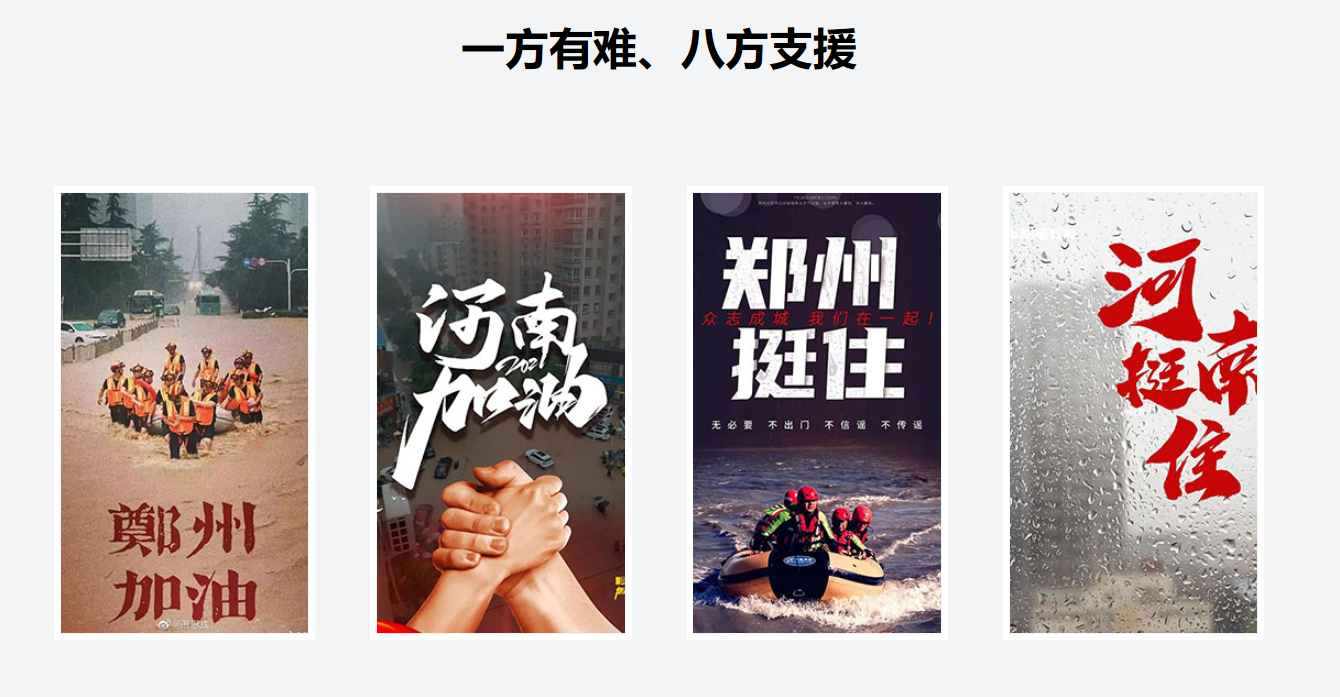
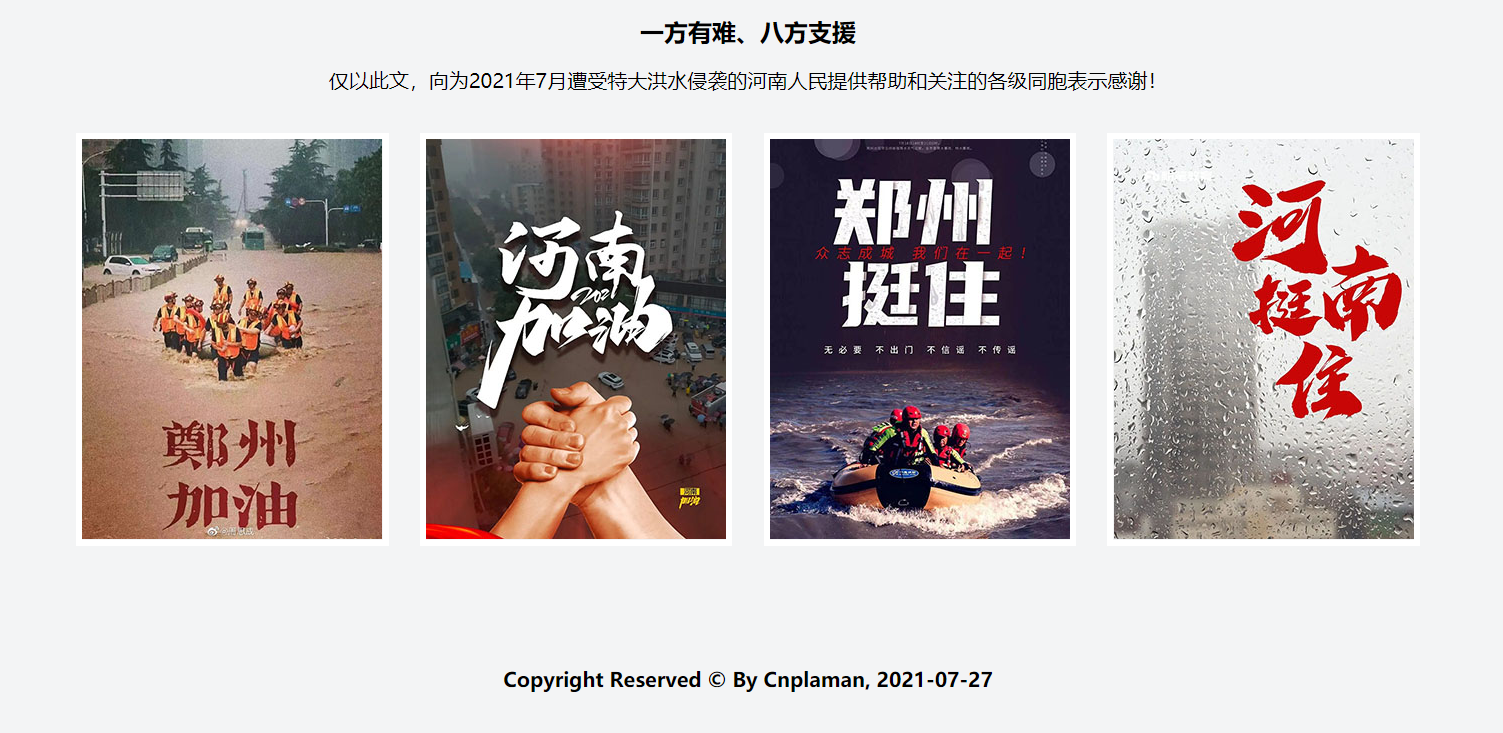
done

diff --git a/quiz.html b/quiz.html
@@ -194,7 +194,7 @@
     </ul>
     </p>
   </article>
-  <h4 class="w">cnplaman &copy; 2021-07-27</h4>
+  <h4 class="w">Copyright Reserved &copy; By Cnplaman, 2021-07-27</h4>
   <script>
     let flag = false
     let d = document.querySelector('.day-box')
